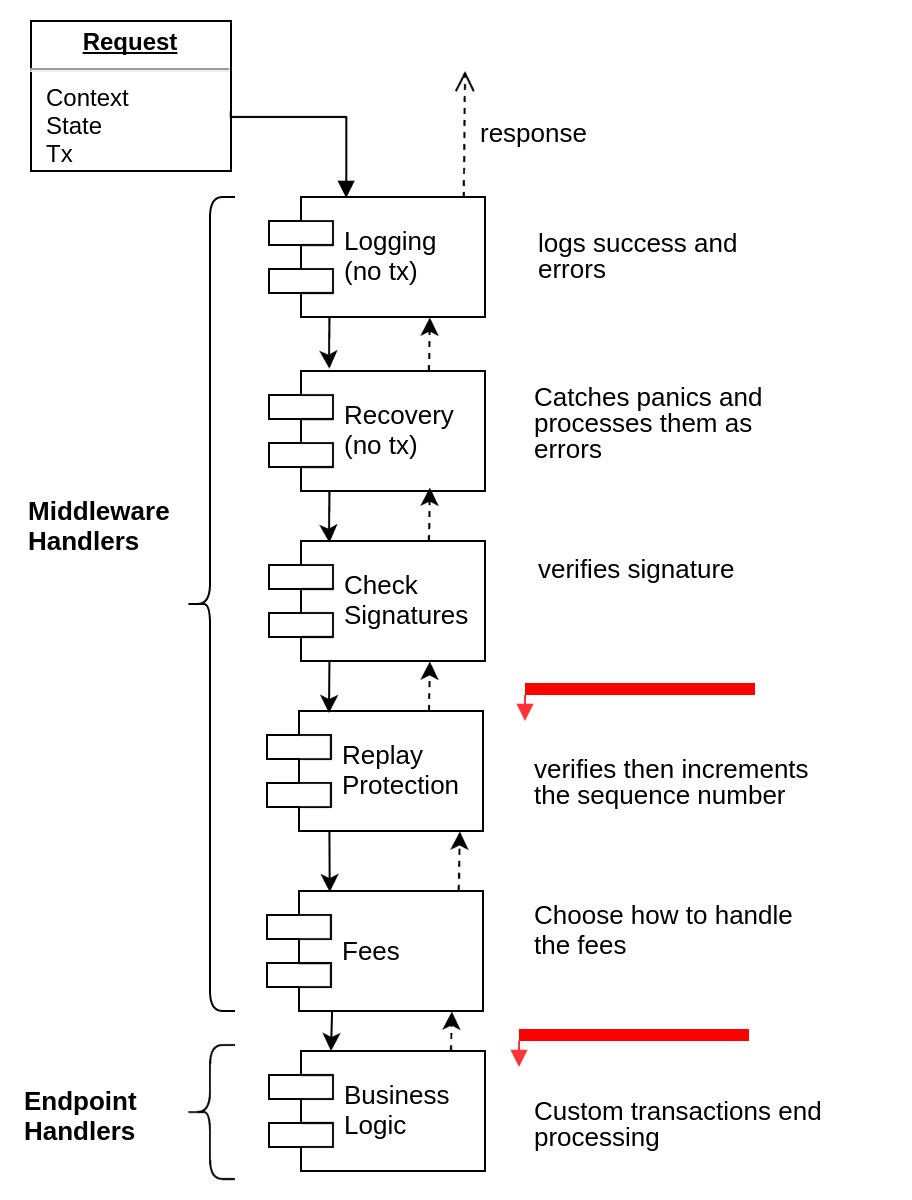
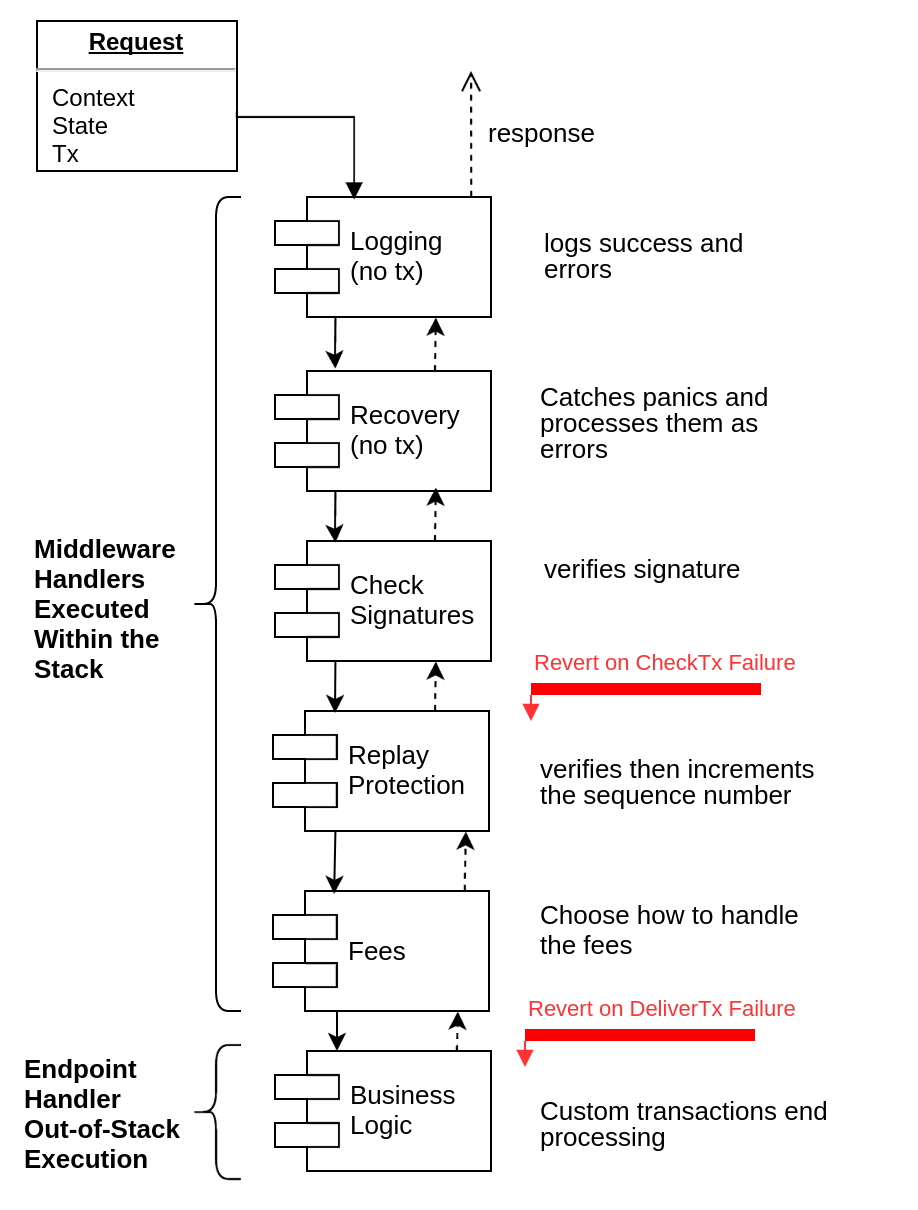
Create overview.md
Update infographic.xml

Update infographic.xml

Added tx.png

Added tx.png

Update overview.md

Added middleware.png

Added middleware.png

small infograpic doc changes

diff --git a/docs/quark/overview.md b/docs/quark/overview.md
@@ -1,0 +1,105 @@
+# Quark Overview
+
+The quark middleware design optimizes flexibility and security. The framework
+is designed around a modular execution stack which allows applications to mix
+and match modular elements as desired. Along side, all modules are permissioned
+and sandboxed to reduce 
+
+For more explanation please see the [standard
+library](https://github.com/tendermint/basecoin/blob/infographic/docs/quark/stdlib.md)
+and
+[glossary](https://github.com/tendermint/basecoin/blob/infographic/docs/quark/glossary.md)
+documentation.
+
+For a more interconnected schematics see these
+[framework](https://github.com/tendermint/basecoin/blob/infographic/docs/graphics/overview-framework.png)
+and
+[security](https://github.com/tendermint/basecoin/blob/infographic/docs/graphics/overview-security.png)
+overviews.
+
+## Framework Overview
+
+### Transaction (tx) 
+
+Each tx passes through the middleware stack which can be defined uniquely by
+each application.  From the multiple layers of tx, each middleware may strip
+off one level, like an onion.  As so, the transaction must be constructed to
+mirror the execution stack, and each middleware should allow embedding an
+arbitrary tx for the next layer in the stack.
+
+<img src="https://github.com/tendermint/basecoin/blob/infographic/docs/graphics/tx.png" width=250>
+
+### Execution Stack
+
+Middleware components allow for code reusability and integrability. A standard
+set of middleware are provided and can be mix-and-matched with custom
+middleware. Some of the [standard
+library](https://github.com/tendermint/basecoin/blob/infographic/docs/quark/stdlib.md)
+middlewares provided in this package include:
+ - Logging
+ - Recovery
+ - Signatures
+ - Chain
+ - Nonce
+ - Fees
+ - Roles
+ - Inter-Blockchain-Communication (IBC)
+ 
+ As a part of stack execution the state space provided to each middleware is
+isolated (see [Data Store](overview.md#data-store)). When executing the stack,
+state-recovery points (checkpoints) can be assigned for stack execution of
+`CheckTx` or `DeliverTx`. This means, that all state changes will be reverted
+to the checkpoint state on failure when either being run as a part of `CheckTx`
+or `DeliverTx`. Example usage of the checkpoints is when we may want to deduct
+a fee even if the end business logic fails, under this situation we would add
+the DeliverTx Checkpoint to after the fee middleware but before the business
+logic. This diagram displays a typical process flow through an execution stack.
+
+<img src="https://github.com/tendermint/basecoin/blob/infographic/docs/graphics/middleware.png" width=500>
+
+### Dispatcher
+
+The dispatcher handler aims to allow for reusable business logic.  As a
+transaction is passed to the end handler, the dispatcher routes the logic to
+the correct module.  To use the dispatcher tool all transaction types must
+first be registered with the dispatcher. Once registered the middleware stack
+or any other handler can call the dispatcher to execute a transaction.
+Similarity to the execution stack, when executing a transaction the dispatcher
+isolates the state space available to the designated module (see [Data
+Store](overview.md#data-store)).
+
+<img src="https://github.com/tendermint/basecoin/blob/infographic/docs/graphics/dispatcher.png" width=600>
+
+## Security Overview
+
+### Permission
+
+Each application is run in a sandbox to isolate security risks. When
+interfacing between applications, if a one of those application is compromised
+the entire network should still be secure. This is achieved through actor
+permissioning whereby each chain, account, or application can provided a
+designated permission for the transaction context to perform a specific action.
+
+Context is passed through the middleware and dispatcher, allowing one to add
+permissions on this app-space, and check current permissions.
+
+<img src="https://github.com/tendermint/basecoin/blob/infographic/docs/graphics/permission.png" width=500>
+
+### Data Store
+
+The entire merkle tree can access all data. When we call a module (or
+middleware), we give them access to a subtree corresponding to their app. This
+is achieved through the use of unique prefix assigned to each module. From the
+module's perspective it is no different, the module need-not have regard for
+the prefix as it is assigned outside of the modules scope. For example, if a
+module named `foo` wanted to write to the store it could save records under the
+key `bar` however the dispatcher would register that record in the persistent
+state under `foo/bar`. Next time the `foo` app was called that record would be
+accessible to it under the assigned key `bar`. This effectively makes app
+prefixing invisible to each module while preventing each module from affecting
+each other module. Under this model no two registered modules are permitted to
+have the same namespace.
+
+<img src="https://github.com/tendermint/basecoin/blob/infographic/docs/graphics/datastore.png" width=500>
+
+

diff --git a/docs/quark/README.md b/docs/quark/README.md
@@ -45,6 +45,7 @@ into various applications.
 
 ## Further reading
 
+* [Quark overview](overview.md)
 * [Glossary of the terms](glossary.md)
 * [Standard modules](stdlib.md)
 * Guide to building a module
